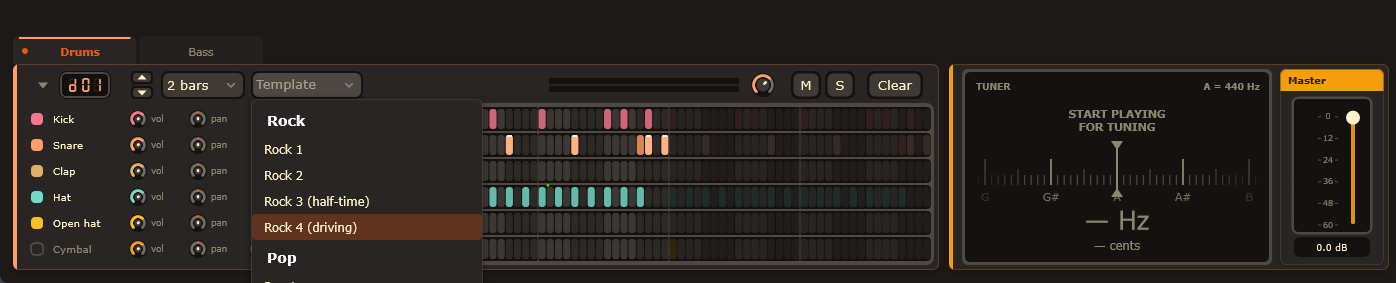
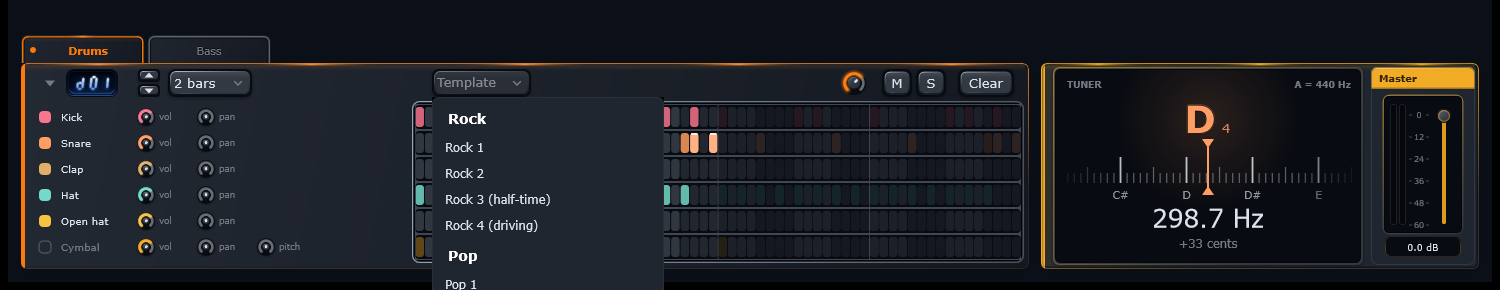
v0.88: flat VU meters, material fader caps and refreshed README screenshots

diff --git a/Source/ui/Theme.h b/Source/ui/Theme.h
@@ -26,6 +26,9 @@ namespace Theme
     inline const juce::Colour orange { 0xffff9e64 };
     inline const juce::Colour red    { 0xfff7768e };
     inline const juce::Colour teal   { 0xff73daca };
+    // VU meters keep the Tokyo Night lilac/blue pair in every theme.
+    inline juce::Colour meterFill() { return juce::Colour (0xffbb9af7); }
+    inline juce::Colour meterPeak() { return juce::Colour (0xff7aa2f7); }
     inline bool legacyTracks = true;               // Tokyo Night keeps its original eight clip colours
 
     inline constexpr float radius = 4.0f;     // controls: buttons, boxes, menus, lanes
@@ -917,14 +920,19 @@ public:
 
             if ((bool) s.getProperties().getWithDefault ("masterOutputFader", false))
             {
+                // Same tactile metal face as the material knobs, kept inside the
+                // existing 14px cap so travel and hit area are unchanged.
                 const juce::Rectangle<float> cap (cx - 7.0f, pos - 7.0f, 14.0f, 14.0f);
-                g.setGradientFill (juce::ColourGradient (Theme::masterFaceLight(), cx - 4.0f, pos - 5.0f,
-                                                        Theme::masterFaceShade(), cx + 4.0f, pos + 7.0f, false));
+                g.setGradientFill (juce::ColourGradient (Theme::bassKnobLight(), cap.getX() + 3.0f, cap.getY() + 2.0f,
+                                                        Theme::bassKnobShade(), cap.getRight() - 2.0f, cap.getBottom() - 1.0f, false));
                 g.fillEllipse (cap);
-                // Inset contact and glint: no extra shadow or change to diameter/travel.
-                g.setGradientFill (juce::ColourGradient (Theme::masterFaceLight().withAlpha (0.75f), cx, pos - 6.5f,
-                                                        Theme::mixerContact().withAlpha (0.60f), cx, pos + 6.5f, false));
+                g.setColour (Theme::bassKnobContact().withAlpha (0.90f));
                 g.drawEllipse (cap.reduced (0.5f), 1.0f);
+                g.setColour (accent.withAlpha (s.isEnabled() ? 0.55f : 0.20f));
+                g.drawEllipse (cap.reduced (1.5f), 1.0f);
+                g.setGradientFill (juce::ColourGradient (Theme::bassKnobGlint().withAlpha (0.75f), cap.getX() + 3.0f, cap.getY() + 2.0f,
+                                                        Theme::bassKnobGlint().withAlpha (0.0f), cap.getRight() - 2.0f, cap.getCentreY(), true));
+                g.drawEllipse (cap.reduced (2.0f), 0.8f);
             }
             else
             {
@@ -1011,6 +1019,19 @@ public:
             const float edgeR = r - 6.2f;
             reflection.addCentredArc (c.x, c.y, edgeR, edgeR, 0.0f, -1.15f, 0.95f, true);
             g.strokePath (reflection, juce::PathStrokeType (0.8f, juce::PathStrokeType::curved, juce::PathStrokeType::rounded));
+            if (track)
+            {
+                // Track volume/pan: give the drag circle a defined inner grip
+                // without changing the face, ring or hit area.
+                const auto grip = face.reduced (face.getWidth() * 0.22f);
+                g.setGradientFill (juce::ColourGradient (stateColour (Theme::bassKnobLight()).brighter (0.06f), grip.getX() + 2.0f, grip.getY() + 1.0f,
+                                                        stateColour (Theme::bassKnobShade()), grip.getRight() - 1.0f, grip.getBottom() - 1.0f, false));
+                g.fillEllipse (grip);
+                g.setColour (stateColour (Theme::bassKnobContact()).withAlpha (0.85f));
+                g.drawEllipse (grip.reduced (0.5f), 0.8f);
+                g.setColour (accent.withAlpha (enabled ? 0.30f : 0.12f));
+                g.drawEllipse (grip.reduced (1.4f), 0.8f);
+            }
             if (subPoc)
             {
                 // Narrow raised metal bevel and inner reflection, never a centre wash.
@@ -1341,98 +1362,57 @@ private:
         well.addRoundedRectangle (r, rad);
         g.reduceClipRegion (well);
 
-        // Recessed well: shaded upper lip, almost-black floor and a faint lit lower lip.
-        g.setGradientFill (juce::ColourGradient (Theme::deep.darker (0.55f), 0.0f, r.getY(),
-                                                Theme::deep.brighter (0.06f), 0.0f, r.getBottom(), false));
+        // Flat well: one dark fill, no gradients or burned-in scale.
+        g.setColour (Theme::deep.darker (0.55f));
         g.fillRect (r);
-        g.setGradientFill (juce::ColourGradient (juce::Colours::black.withAlpha (0.55f), 0.0f, r.getY(),
-                                                juce::Colours::transparentBlack, 0.0f, r.getY() + r.getHeight() * 0.70f, false));
-        g.fillRect (r);
-        segments (g, r, horizontal);
 
         const float p = pos (level), hp = pos (hold);
-        // solid bar in the theme colours: accent up to -18 dB, secondary up to -3 dB, red only for clipping
-        const float zoneY = (-18.0f + 60.0f) / 66.0f, zoneR = (-3.0f + 60.0f) / 66.0f;
-        auto zone = [&] (float from, float to, juce::Colour c)
-        {
-            const float a = juce::jmin (p, to);
-            if (a <= from) return;
-            juce::Rectangle<float> z;
-            if (horizontal) z = { r.getX() + r.getWidth() * from, r.getY(), r.getWidth() * (a - from), r.getHeight() };
-            else            z = { r.getX(), r.getBottom() - r.getHeight() * a, r.getWidth(), r.getHeight() * (a - from) };
-            // Cylindrical bar: lit upper face falling into a deeper lower edge.
-            g.setGradientFill (juce::ColourGradient (c.brighter (0.30f), z.getX(), z.getY(),
-                                                    c.darker (0.34f), z.getX(), z.getBottom(), false));
-            g.fillRect (z);
-            g.setColour (c.interpolatedWith (juce::Colours::white, 0.55f).withAlpha (0.55f));
-            if (horizontal) g.fillRect (z.getX(), z.getY() + z.getHeight() * 0.20f, z.getWidth(), juce::jmax (1.0f, z.getHeight() * 0.18f));
-            else            g.fillRect (z.getX() + z.getWidth() * 0.20f, z.getY(), juce::jmax (1.0f, z.getWidth() * 0.18f), z.getHeight());
-        };
-        zone (0.0f, zoneY, Theme::accent);
-        zone (zoneY, zoneR, Theme::purple);
-        zone (zoneR, 1.0f, Theme::red);
-
+        const auto fill = Theme::meterFill();
         if (p > 0.01f)
         {
-            const auto c = p > zoneR ? Theme::red : (p > zoneY ? Theme::purple : Theme::accent);
-            const auto edge = c.interpolatedWith (juce::Colours::white, 0.72f);
+            const juce::Rectangle<float> bar = horizontal
+                ? juce::Rectangle<float> (r.getX(), r.getY(), r.getWidth() * p, r.getHeight())
+                : juce::Rectangle<float> (r.getX(), r.getBottom() - r.getHeight() * p, r.getWidth(), r.getHeight() * p);
+            g.setColour (fill);
+            g.fillRect (bar);
+
+            // Small glow at the leading edge only; still clipped to the well.
             if (horizontal)
             {
                 const float x = r.getX() + r.getWidth() * p;
-                // bounded bloom behind the leading edge, clipped to the well
-                g.setGradientFill (juce::ColourGradient (c.withAlpha (0.30f), x - 5.0f, 0.0f,
-                                                        c.withAlpha (0.0f), x + 3.0f, 0.0f, false));
-                g.fillRect (juce::jmax (r.getX(), x - 5.0f), r.getY(),
-                            juce::jmin (8.0f, x - r.getX() + 3.0f), r.getHeight());
-                g.setColour (edge);
-                g.fillRect (x - 1.5f, r.getY() + 1.0f, 1.5f, r.getHeight() - 2.0f);
+                g.setGradientFill (juce::ColourGradient (fill.withAlpha (0.30f), x, 0.0f,
+                                                        fill.withAlpha (0.0f), x + 4.0f, 0.0f, false));
+                g.fillRect (x, r.getY(), 4.0f, r.getHeight());
             }
             else
             {
                 const float y = r.getBottom() - r.getHeight() * p;
-                g.setGradientFill (juce::ColourGradient (c.withAlpha (0.0f), 0.0f, y - 3.0f,
-                                                        c.withAlpha (0.30f), 0.0f, y + 5.0f, false));
-                g.fillRect (r.getX(), juce::jmax (r.getY(), y - 3.0f),
-                            r.getWidth(), juce::jmin (8.0f, r.getBottom() - y + 3.0f));
-                g.setColour (edge);
-                g.fillRect (r.getX() + 1.0f, y - 1.5f, r.getWidth() - 2.0f, 1.5f);
+                g.setGradientFill (juce::ColourGradient (fill.withAlpha (0.30f), 0.0f, y,
+                                                        fill.withAlpha (0.0f), 0.0f, y - 4.0f, false));
+                g.fillRect (r.getX(), y - 4.0f, r.getWidth(), 4.0f);
             }
         }
 
         if (hp > 0.02f)
         {
-            const auto hc = Theme::text.interpolatedWith (juce::Colours::white, 0.35f);
+            // Peak-hold stays Tokyo blue in every theme. Snap to whole pixels so
+            // the 2px marker stays crisp at any meter size.
+            g.setColour (Theme::meterPeak());
             if (horizontal)
             {
-                const float x = r.getX() + r.getWidth() * hp;
-                g.setGradientFill (juce::ColourGradient (hc.withAlpha (0.0f), x - 4.0f, 0.0f,
-                                                        hc.withAlpha (0.34f), x, 0.0f, false));
-                g.fillRect (x - 4.0f, r.getY(), 4.0f, r.getHeight());
-                g.setColour (hc.withAlpha (0.92f));
-                g.fillRect (x - 1.0f, r.getY(), 1.5f, r.getHeight());
+                const float x = std::floor (r.getX() + r.getWidth() * hp);
+                g.fillRect (x - 1.0f, r.getY(), 2.0f, r.getHeight());
             }
             else
             {
-                const float y = r.getBottom() - r.getHeight() * hp;
-                g.setGradientFill (juce::ColourGradient (hc.withAlpha (0.0f), 0.0f, y + 4.0f,
-                                                        hc.withAlpha (0.34f), 0.0f, y, false));
-                g.fillRect (r.getX(), y, r.getWidth(), 4.0f);
-                g.setColour (hc.withAlpha (0.92f));
-                g.fillRect (r.getX(), y, r.getWidth(), 1.5f);
+                const float y = std::floor (r.getBottom() - r.getHeight() * hp);
+                g.fillRect (r.getX(), y - 1.0f, r.getWidth(), 2.0f);
             }
         }
 
-        // Outer contour: dark contact above, faint reflected light on the lower lip.
-        g.setGradientFill (juce::ColourGradient (Theme::border.withAlpha (0.45f), 0.0f, r.getY(),
-                                                Theme::border.withAlpha (0.10f), 0.0f, r.getBottom(), false));
+        // Flat contact outline; no directional highlight.
+        g.setColour (Theme::border.withAlpha (0.40f));
         g.drawRoundedRectangle (r.reduced (0.5f), rad - 0.5f, 1.0f);
-    }
-
-    static void segments (juce::Graphics& g, juce::Rectangle<float> r, bool horiz)
-    {
-        g.setColour (Theme::text.withAlpha (0.055f));                        // unlit scale burned into the well
-        if (horiz) for (float x = r.getX() + 3.0f; x < r.getRight(); x += 4.0f) g.fillRect (x, r.getY() + 1.0f, 1.0f, r.getHeight() - 2.0f);
-        else       for (float y = r.getY() + 3.0f; y < r.getBottom(); y += 4.0f) g.fillRect (r.getX() + 1.0f, y, r.getWidth() - 2.0f, 1.0f);
     }
 
     bool horizontal = false;

diff --git a/Source/SelfTest.h b/Source/SelfTest.h
@@ -996,6 +996,41 @@ inline void bottomRowSelfTest (const std::function<void (bool, const juce::Strin
     drums.setLookAndFeel (nullptr); bass.setLookAndFeel (nullptr); mixer.setLookAndFeel (nullptr);
 }
 
+inline void levelMeterSelfTest (const std::function<void (bool, const juce::String&)>& check)
+{
+    const Theme::Preset saved { "live", Theme::blue.getARGB(), Theme::purple.getARGB(), Theme::cyan.getARGB(),
+                               Theme::bg.getARGB(), Theme::panel.getARGB(), Theme::text.getARGB() };
+    const bool legacy = Theme::legacyTracks;
+    const Theme::Preset themes[] { Theme::presets[0], Theme::presets[2], Theme::presets[7] };
+    for (const auto& preset : themes)
+    {
+        Theme::applyPreset (preset, preset.name == "Tokyo Night");
+        for (bool horizontal : { false, true })
+        {
+            LevelMeter meter;
+            meter.setSize (horizontal ? 120 : 24, horizontal ? 24 : 120);
+            meter.setHorizontal (horizontal);
+            meter.setBars (1);
+            meter.setLevels (0.5f, 0.5f);
+            const auto image = meter.createComponentSnapshot (meter.getLocalBounds());
+            bool fillFound = false, peakFound = false, zoneFound = false;
+            for (int i = 0; i < 120; ++i)
+            {
+                const auto px = horizontal ? image.getPixelAt (i, 12) : image.getPixelAt (12, i);
+                fillFound |= px == Theme::meterFill();
+                peakFound |= px == Theme::meterPeak();
+                zoneFound |= px == Theme::green || px == Theme::red;
+            }
+            check (Theme::meterFill() == juce::Colour (0xffbb9af7)
+                   && Theme::meterPeak() == juce::Colour (0xff7aa2f7)
+                   && fillFound && peakFound && ! zoneFound,
+                   "level meter: flat fixed Tokyo lilac fill, blue peak and no zone colours - " + preset.name
+                   + (horizontal ? " horizontal" : " vertical"));
+        }
+    }
+    Theme::applyPreset (saved, legacy);
+}
+
 inline void mixerMaterialSelfTest (const std::function<void (bool, const juce::String&)>& check)
 {
     const Theme::Preset saved { "live", Theme::blue.getARGB(), Theme::purple.getARGB(), Theme::cyan.getARGB(),
@@ -1328,6 +1363,7 @@ inline juce::String runEngineSelfTest()
     toolbarMaterialSelfTest (check);
     BassLightPocTest::run (check);
     bassControlSelfTest (check);
+    levelMeterSelfTest (check);
     mixerMaterialSelfTest (check);
     bottomRowSelfTest (check);
 

diff --git a/docs/design/design-system.md b/docs/design/design-system.md
@@ -77,6 +77,23 @@ and cache-cost measurements. Synthetic 144-DPI/theme/state fixtures are not
 actual GUI interaction or alternate-monitor evidence. Visual inspection and
 user acceptance remain separate; **no rollout before explicit POC approval**.
 
+### v0.88 flat VU meters and material fader caps
+
+User-selected scope: the VU meters, the master fader cap and the track
+volume/pan drag circles. `LevelMeter` is flat again: one dark well fill, no
+burned-in scale, no cylindrical gradient, no zone colours and no white
+highlight. The bar is a flat Tokyo Night lilac `#BB9AF7` in every theme, with a
+small lilac glow at the leading edge; peak-hold is a crisp 2px Tokyo blue
+`#7AA2F7` line in every theme. Meter smoothing, peak timing, dB mapping and
+component bounds are unchanged. The master fader keeps its 14px cap and travel
+but now uses the material knob face, contact ring, accent ring and glint. Track
+volume/pan knobs gain a defined inner grip ring inside the existing face, so
+the drag circle reads more clearly without changing the face, outer ring, arc,
+pointer or hit area. Non-master linear faders and all non-track knobs keep their
+previous paint. Verification: Release selftest 1802 PASS / 0 FAIL, including a
+new fixed-colour meter check across Tokyo Night, Sunset and Neo-Retro, plus
+1500x980 and 1100x620 captures with active meters.
+
 ### v0.87 meters, tuner glow, pattern rail and recessed displays
 
 User-selected scope: VU effects, tuner note glow, the Song button, the pattern

diff --git a/README.md b/README.md
@@ -2,7 +2,7 @@
 
 A lightweight multitrack looper and recorder for guitarists, built with JUCE and C++ for Windows. Plug in your interface (tested with a Focusrite 6i6 over ASIO), set a tempo, and layer riffs on top of a built-in drum machine.
 
-![RiffCatch main window, Sunset theme](docs/screenshots/main-sunset.png)
+![RiffCatch main window, Neo-Retro theme](docs/screenshots/main-neo-retro.png)
 
 ## Features
 
